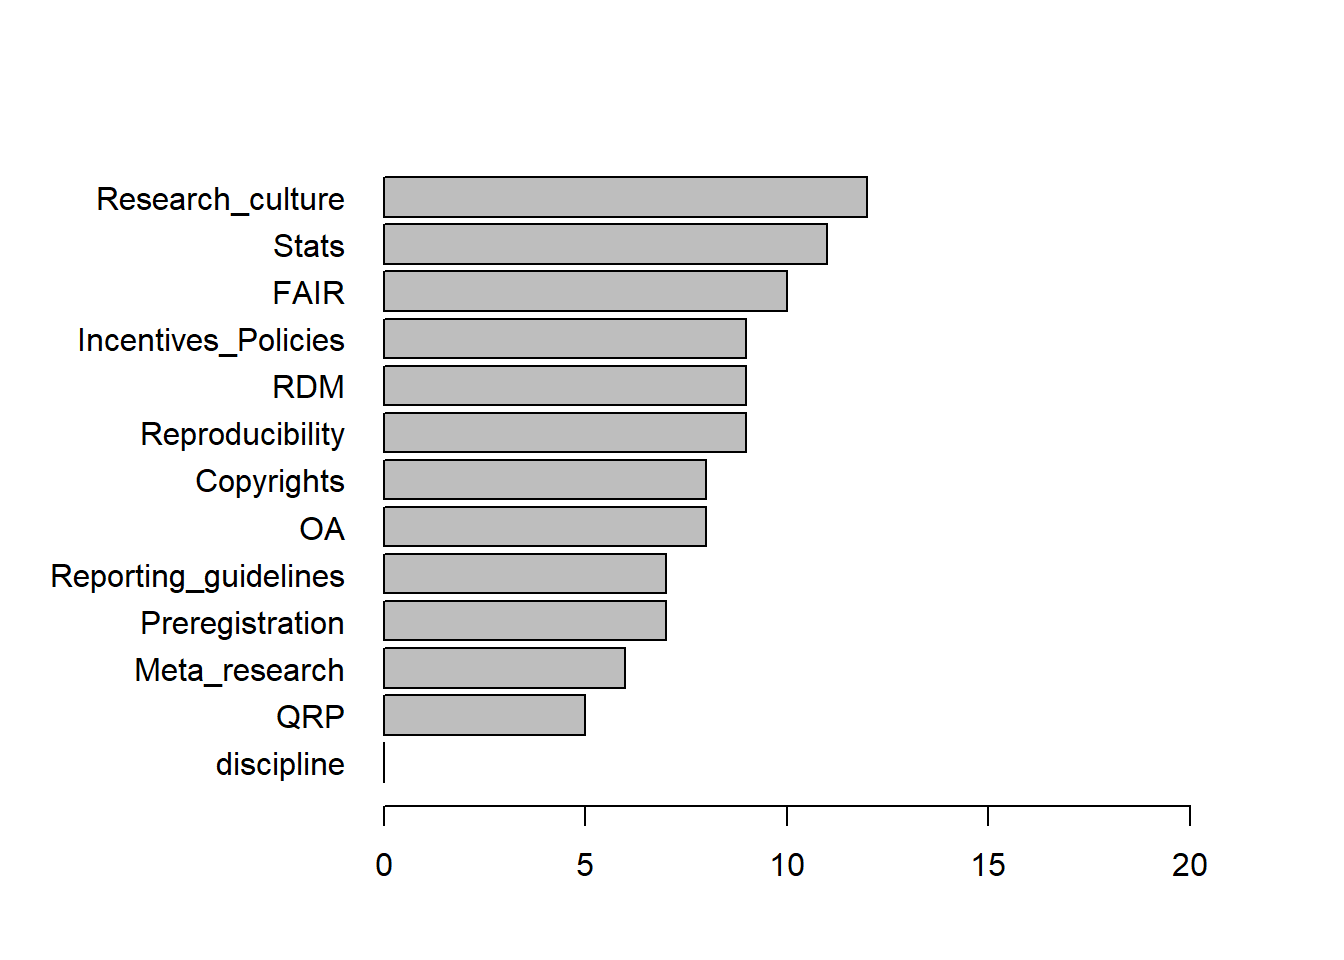
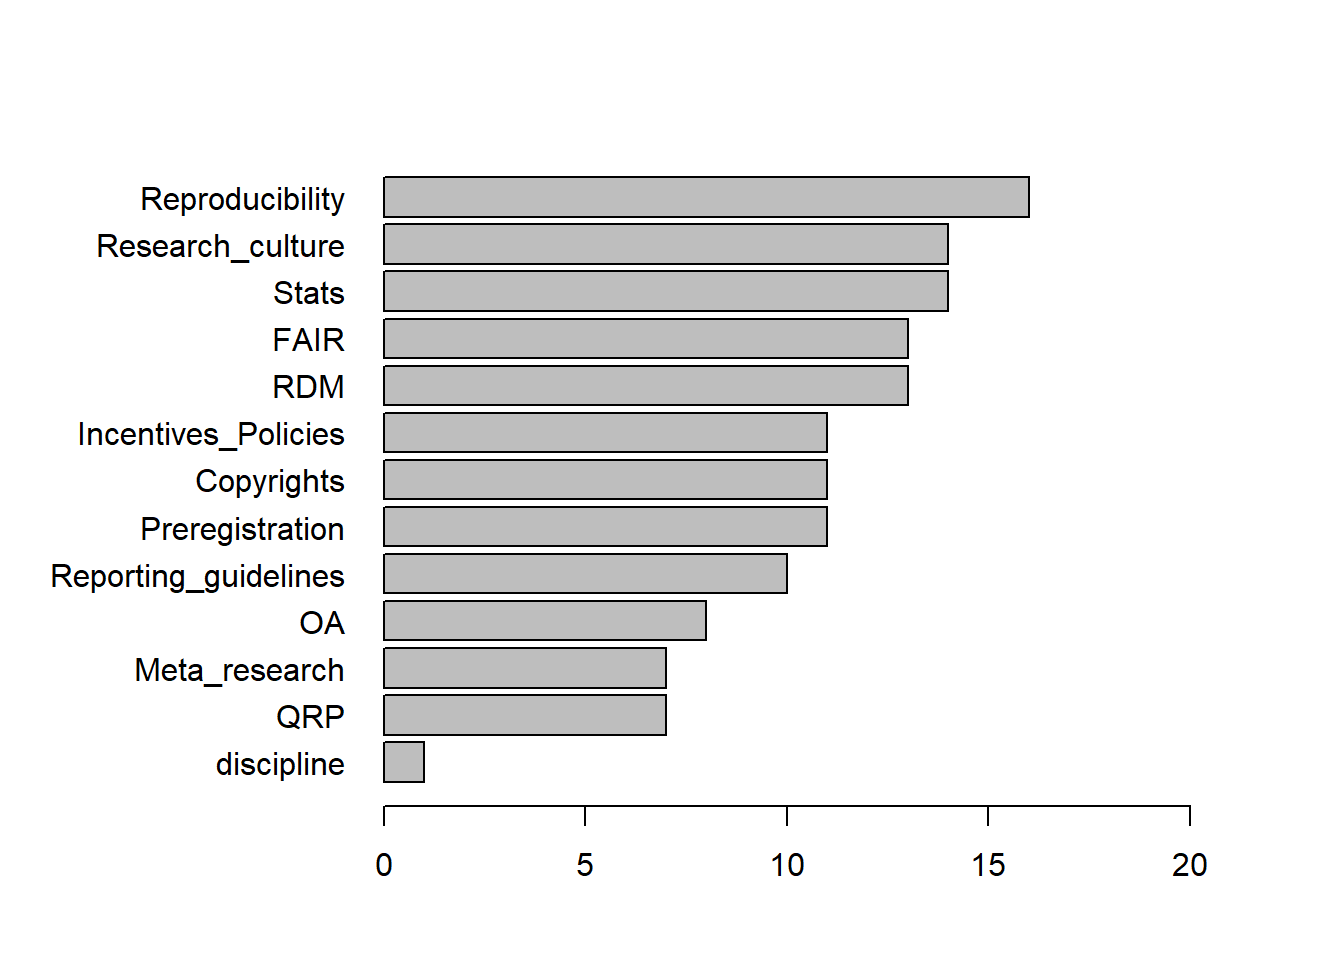
new data 01.11.2022

diff --git a/OSC survery results.html b/OSC survery results.html
@@ -59,7 +59,7 @@ ul.task-list{list-style: none;}
 <div class="cell">
 
 </div>
-<p>Total number of participant in the OSC survey: <strong>16</strong></p>
+<p>Total number of participant in the OSC survey: <strong>23</strong></p>
 </section>
 <section id="survey-resuts" class="level2">
 <h2 class="anchored" data-anchor-id="survey-resuts">Survey Resuts</h2>
@@ -71,7 +71,7 @@ ul.task-list{list-style: none;}
 <div class="cell-output cell-output-stdout">
 <pre><code>
  No Yes 
-  9   7 </code></pre>
+ 11  12 </code></pre>
 </div>
 </div>
 </section>
@@ -81,7 +81,7 @@ ul.task-list{list-style: none;}
 <div class="cell-output cell-output-stdout">
 <pre><code>
 Germany     LMU  Munich 
-      2      12       2 </code></pre>
+      3      18       2 </code></pre>
 </div>
 </div>
 </section>
@@ -95,13 +95,13 @@ Art, humanities, history, linguistics, and culture science
                            Biology, Chemistry, Geosciences 
                                                          1 
                    Law, Economics, Business Administration 
-                                                         1 
+                                                         2 
                     Math, Statistics, Informatics, Physics 
-                                                         2 
+                                                         3 
                              Medicine, Veterinary medicine 
-                                                         2 
+                                                         4 
          Social sciences, Psychology, educational sciences 
-                                                         8 </code></pre>
+                                                        11 </code></pre>
 </div>
 </div>
 </section>
@@ -110,8 +110,8 @@ Art, humanities, history, linguistics, and culture science
 <div class="cell">
 <div class="cell-output cell-output-stdout">
 <pre><code>
-  other     PhD      PI Postdoc 
-      2       6       7       1 </code></pre>
+    MSc   other     PhD      PI Postdoc 
+      1       2       7       9       4 </code></pre>
 </div>
 <div class="cell-output cell-output-stdout">
 <pre><code>
@@ -160,7 +160,9 @@ Doing applied research, evaluatoins and policy briefs  at a federal ministry
 <h4 class="anchored" data-anchor-id="other-topics-and-specific-discipline">Other topics and specific discipline</h4>
 <div class="cell">
 <div class="cell-output cell-output-stdout">
-<pre><code>&lt; table of extent 0 &gt;</code></pre>
+<pre><code>
+clinical studies in medicine 
+                           1 </code></pre>
 </div>
 <div class="cell-output cell-output-stdout">
 <pre><code>&lt; table of extent 0 &gt;</code></pre>
@@ -199,7 +201,8 @@ Doing applied research, evaluatoins and policy briefs  at a federal ministry
 <p>‘If you have any comment(s) about what would help you feel comfortable contributing (e.g., language, online vs.&nbsp;in-person events, synchronous vs asynchronous contributions), please indicate them here:’</p>
 <div class="cell">
 <div class="cell-output cell-output-stdout">
-<pre><code>[1] "I'm a very minor importance in the network, so please don't weight my answers too much. I'm more intrested in following up whta you big players do and consider important"</code></pre>
+<pre><code>[1] "I'm a very minor importance in the network, so please don't weight my answers too much. I'm more intrested in following up whta you big players do and consider important"              
+[2] "Hosting, facilitating a journal club, eventually some other format where e.g. we could try to reproduce the computational part of biomedical papers (sequencing, flow cytometry, etc.) "</code></pre>
 </div>
 </div>
 </section>
